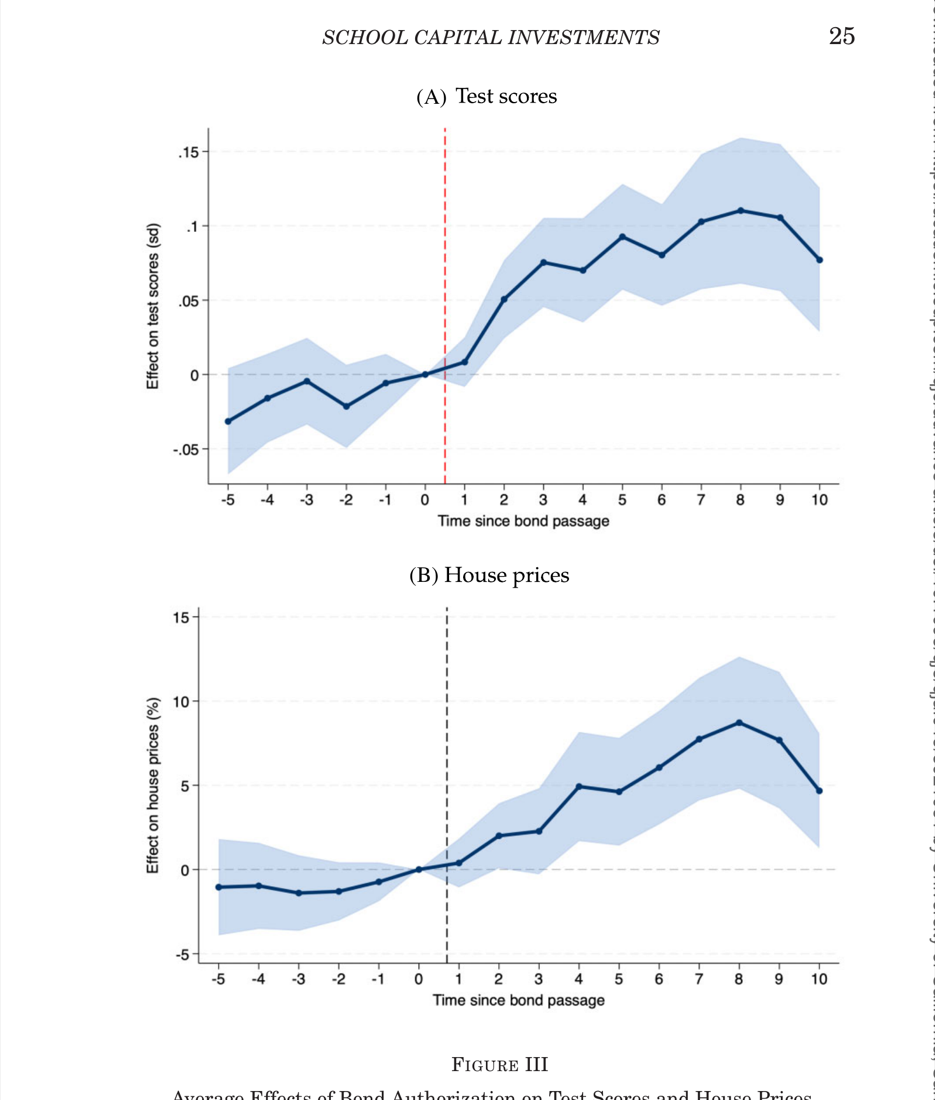
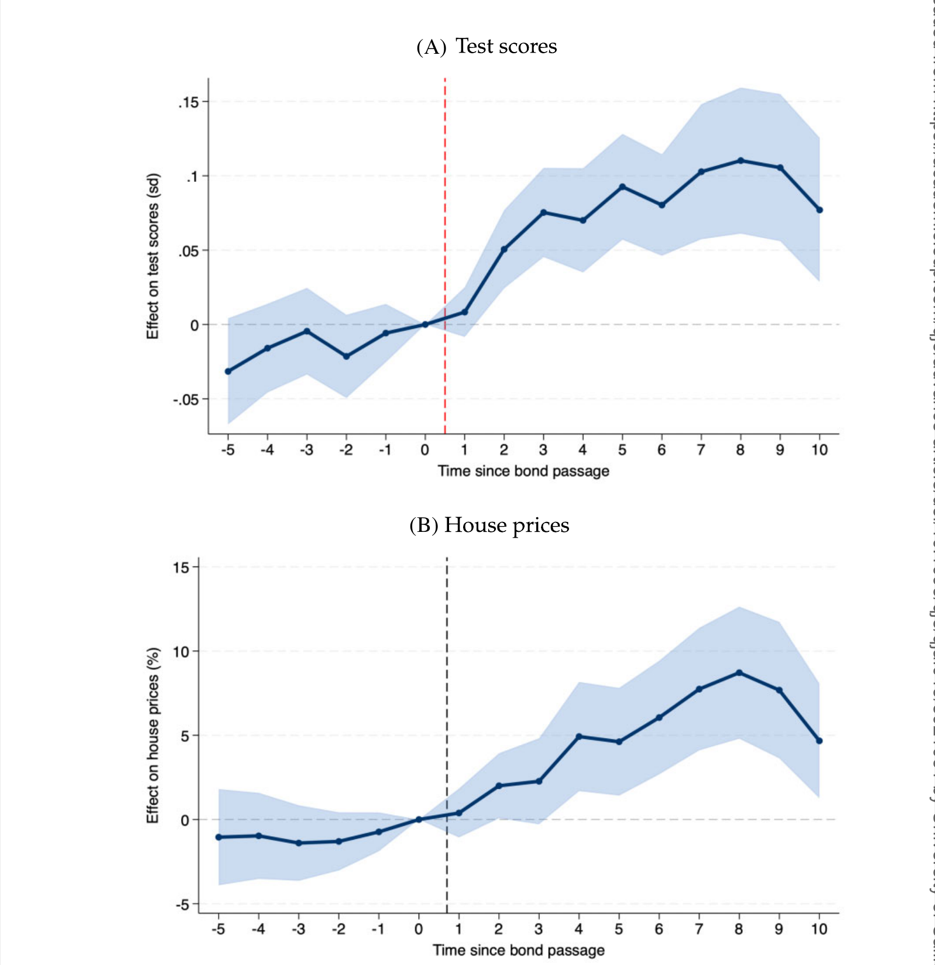
Emblem cardinal in light (default selector) + larger; fix light-mode card tint; bump sidebar fonts; tighter crops on what-works/LAUSD/monitoring figures

diff --git a/assets/css/main.scss b/assets/css/main.scss
@@ -695,14 +695,14 @@ html[data-theme="dark"]         { --frame-color: #5a5a5a; }  /* touch brighter t
 .usc-seal-emblem {
   display: block;
   float: right;
-  width: 120px;
-  height: 124px;
+  width: 204px;
+  height: 210px;
   margin: 0.2em 0 0.6em 1.4em;
+  background-color: #990000;   /* light/default (no data-theme attr): cardinal */
   -webkit-mask: url('/images/usc-seal.png') center / contain no-repeat;
           mask: url('/images/usc-seal.png') center / contain no-repeat;
 }
-html[data-theme="light"] .usc-seal-emblem { background-color: #990000; }
-html[data-theme="dark"]  .usc-seal-emblem { background-color: #FFCC00; }
+html[data-theme="dark"] .usc-seal-emblem { background-color: #FFCC00; }
 
 /* Abstract box background = main page background (not the card tint) */
 .paper-abstract { background: var(--global-bg-color); }
@@ -717,12 +717,13 @@ html[data-theme="dark"]  .usc-seal-emblem { background-color: #FFCC00; }
 html { font-size: 14px; }
 @media (min-width: 48em) { html { font-size: 16px; } }
 
-/* Desktop left panel (sidebar) nudged back up a bit */
+/* Desktop left panel (sidebar) nudged back up a bit (target elements directly) */
 @media screen and (min-width: 1024px) {
-  .sidebar { font-size: 1.1em; }
+  .sidebar .author__name { font-size: 1.3em; }
+  .sidebar .author__urls a { font-size: 1.12em; }
 }
 
 /* Card sits a touch off the page bg; abstract box returns to the page bg.
    Light: card slightly darker than white. Dark: card slightly brighter than #474747. */
-html[data-theme="light"] .page__content .list__item { background: #f0f0f0; }
-html[data-theme="dark"]  .page__content .list__item { background: #555555; }
+.page__content .list__item { background: #f0f0f0; }                          /* light/default */
+html[data-theme="dark"] .page__content .list__item { background: #555555; }  /* dark */